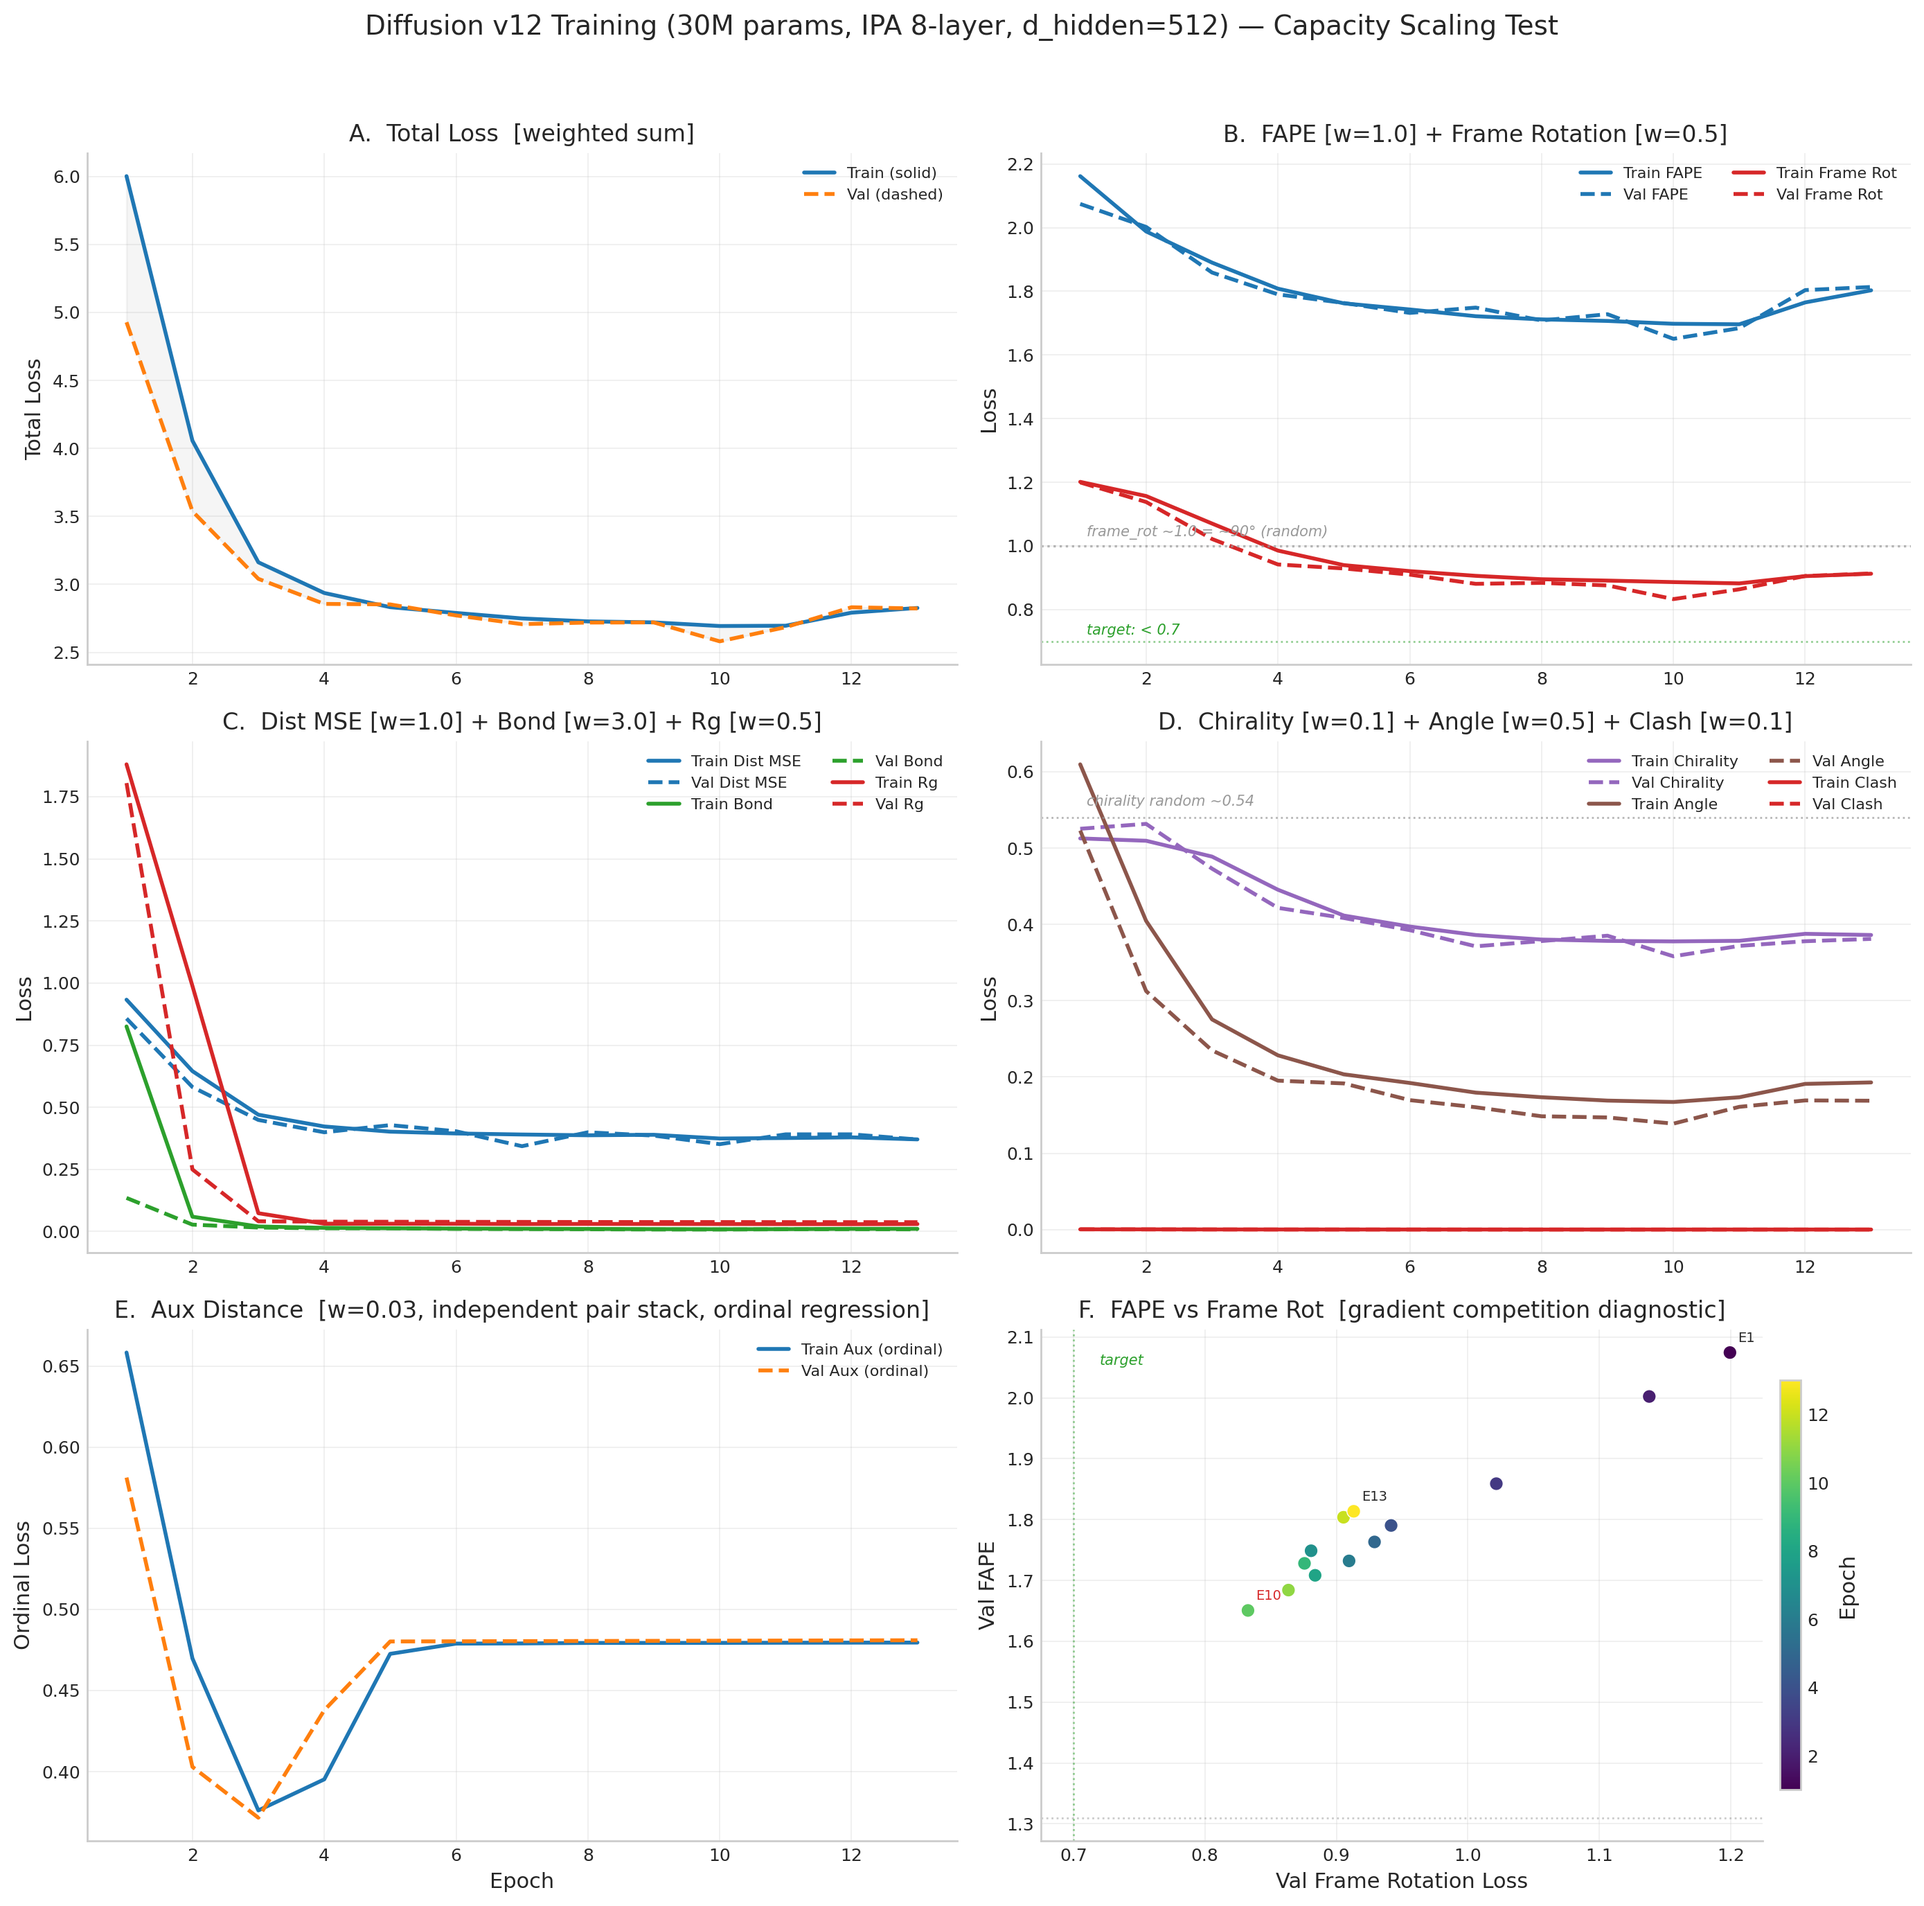
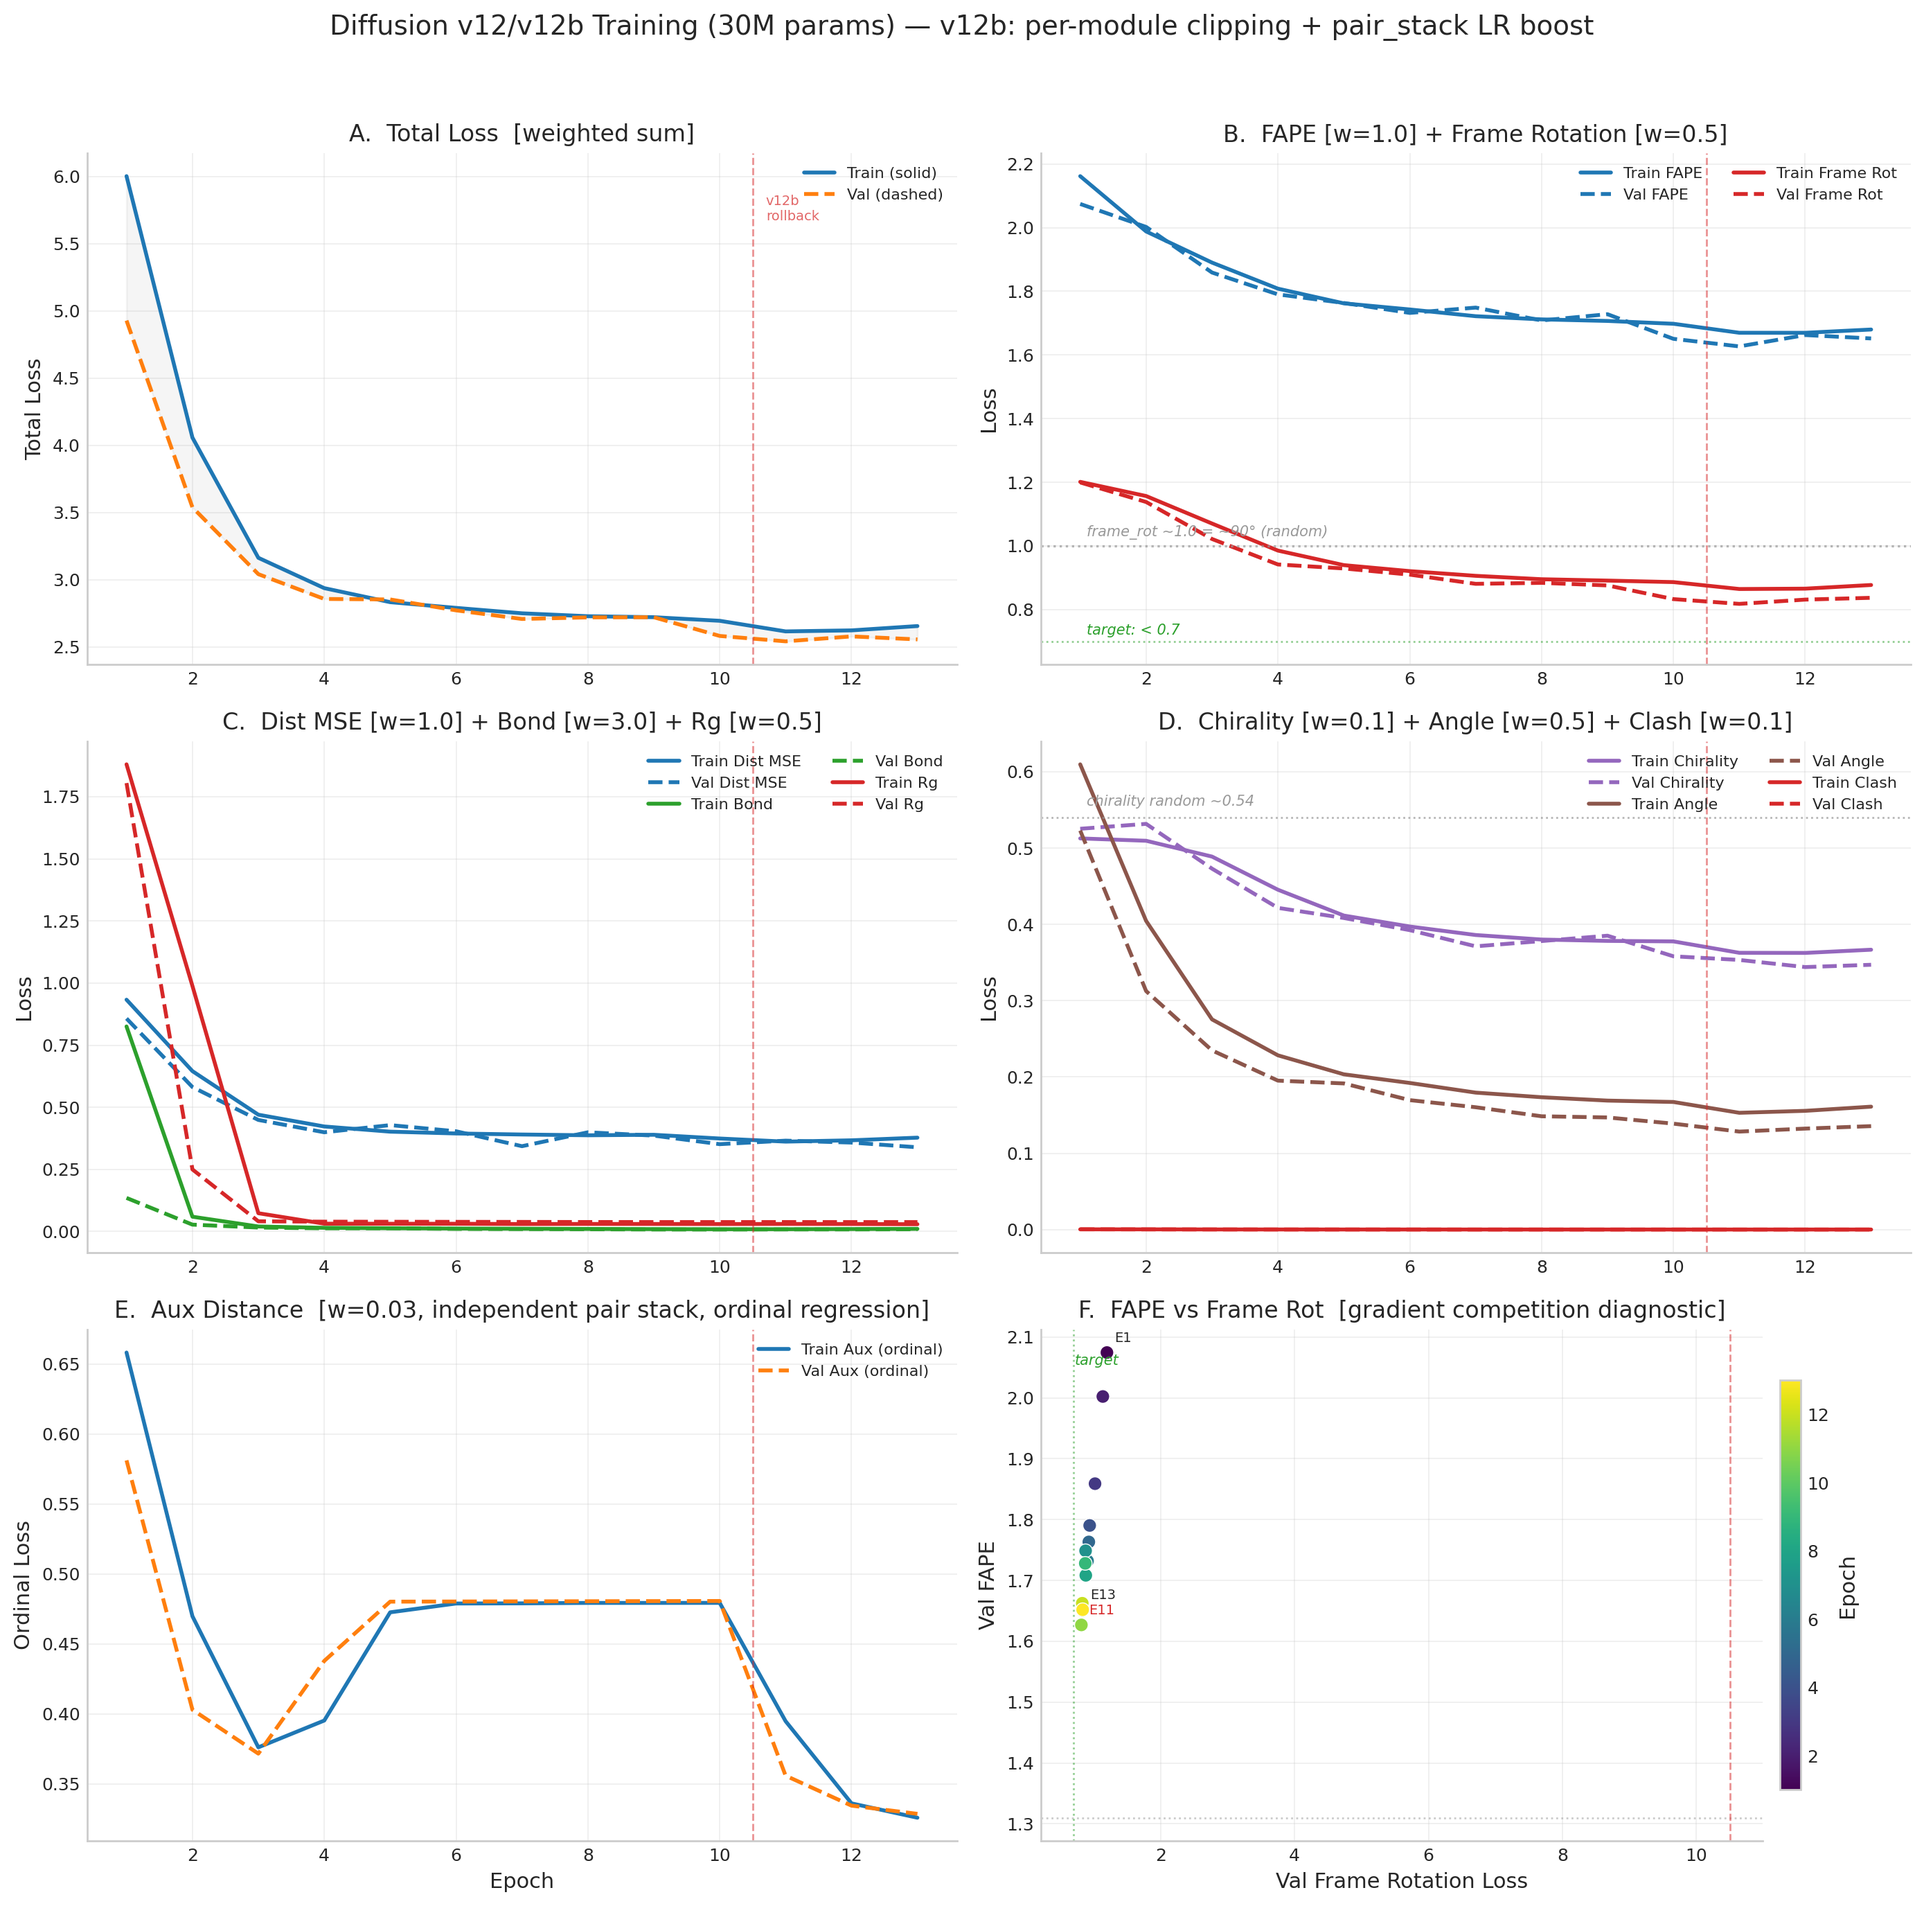
v12b E1-E3 results: FAPE 1.627 (new best), TM 0.105, training stable
- v12b rolled back to E10 EMA weights with per-module grad clipping + 3x pair_stack LR
- E1: val FAPE 1.627 (beats v12 E10's 1.651), frame_rot 0.818, TM 0.102
- E2: DDIM TM 0.105 (new all-time best across all versions)
- E3: warmup complete at full LR 2e-5, stable at FAPE 1.652
- Loss curves updated with v12→v12b transition line at E10
- Training table shows blue-tinted v12b rows after rollback separator

diff --git a/index.html b/index.html
@@ -1408,6 +1408,44 @@
                 <td>19.54&Aring;</td>
                 <td><span class="tag tag-pat">pat 3</span></td>
               </tr>
+              <tr style="background: var(--bg-secondary);">
+                <td colspan="9" style="text-align: center; font-size: 0.85em; color: var(--text-secondary); padding: 6px;">
+                  <strong>&mdash; v12b rollback to E10 EMA &mdash;</strong> per-module grad clipping, pair_stack 3x LR, tripwire
+                </td>
+              </tr>
+              <tr style="background: rgba(31, 119, 180, 0.08);">
+                <td>b1</td>
+                <td>2.541</td>
+                <td style="color: #2ca02c;"><strong>1.627</strong></td>
+                <td style="color: #2ca02c;"><strong>0.818</strong></td>
+                <td>0.366</td>
+                <td>0.008</td>
+                <td>0.102</td>
+                <td>16.98&Aring;</td>
+                <td><span class="tag tag-best">NEW BEST</span></td>
+              </tr>
+              <tr style="background: rgba(31, 119, 180, 0.08);">
+                <td>b2</td>
+                <td>2.577</td>
+                <td>1.662</td>
+                <td>0.831</td>
+                <td>0.358</td>
+                <td>0.008</td>
+                <td style="color: #2ca02c;"><strong>0.105</strong></td>
+                <td>16.89&Aring;</td>
+                <td><span class="tag tag-pat">pat 1</span></td>
+              </tr>
+              <tr style="background: rgba(31, 119, 180, 0.08);">
+                <td>b3</td>
+                <td>2.555</td>
+                <td>1.652</td>
+                <td>0.837</td>
+                <td>0.339</td>
+                <td>0.009</td>
+                <td>0.103</td>
+                <td>17.09&Aring;</td>
+                <td><span class="tag tag-pat">pat 2</span></td>
+              </tr>
             </tbody>
           </table>
         </div>
@@ -1707,7 +1745,7 @@
           </details>
         </div>
         <div style="color: var(--text-secondary); font-size: 0.85em; margin-top: 8px;" id="v9-last-updated">
-          Last updated: 2026-03-10 18:00 UTC
+          Last updated: 2026-03-10 19:07 UTC
         </div>
 
         <!-- v10 Historical Results (collapsed) -->
